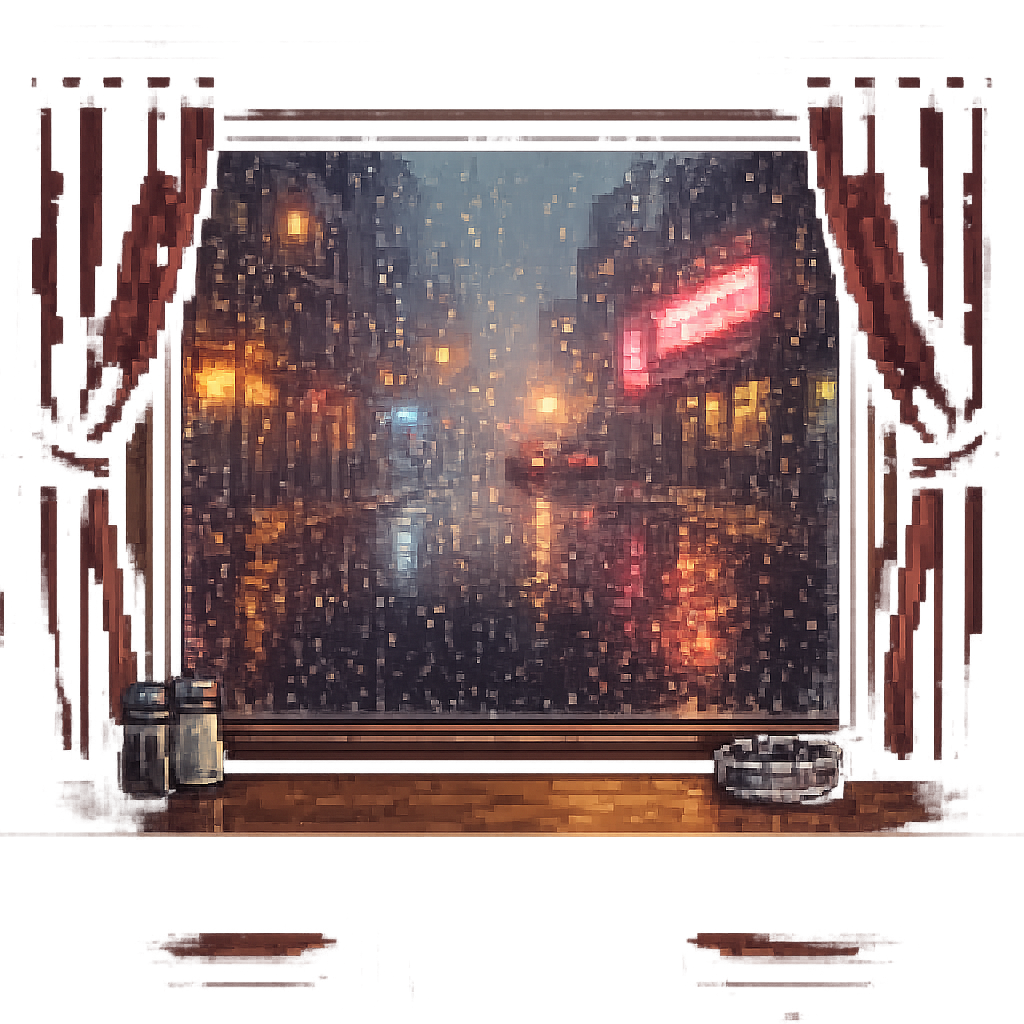
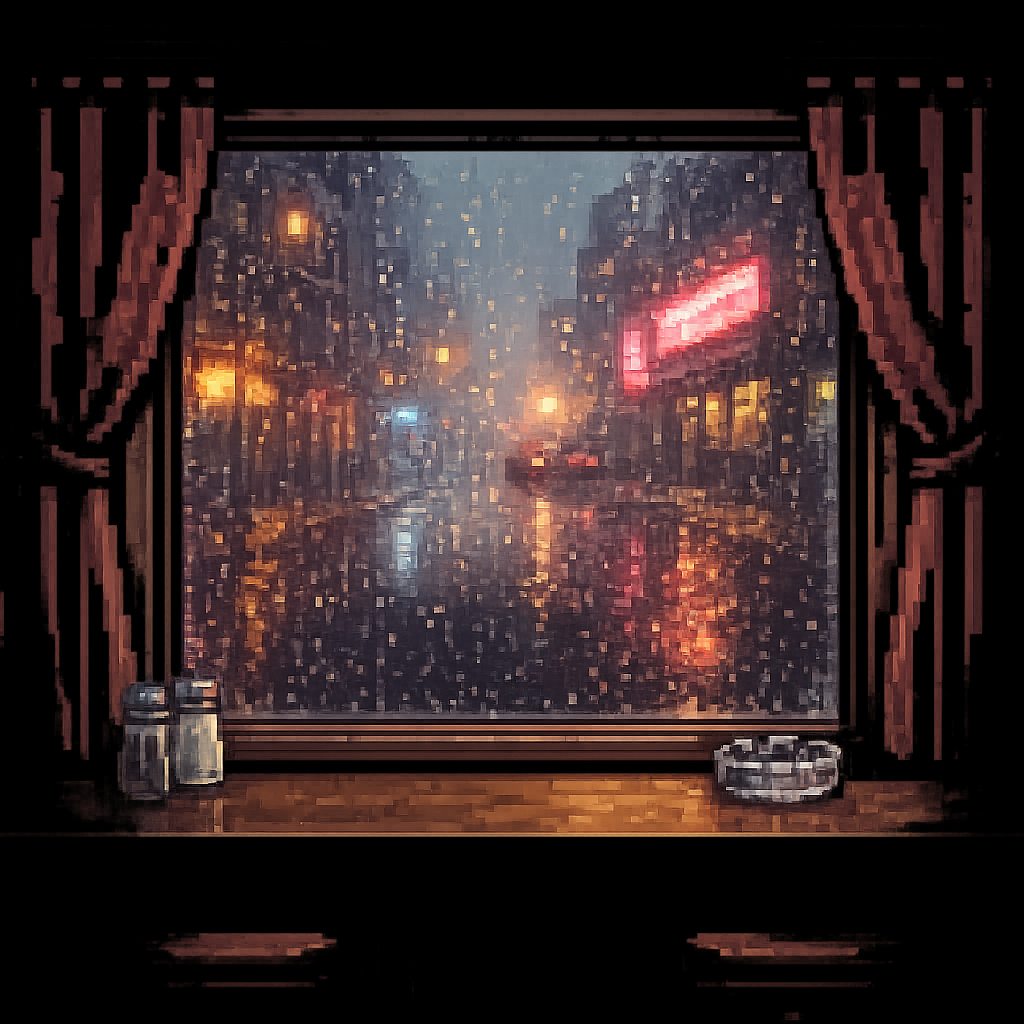
fix bgimg

diff --git a/style.css b/style.css
@@ -388,6 +388,8 @@ body::before {
   display: flex;
   align-items: end;
   justify-content: center;
+  background-image: url(./Girls1/BGbar.png);
+  background-size: cover;
 }
 
 #animazione img {
@@ -514,7 +516,7 @@ body::before {
 
 @media (max-width: 900px) {
   #welcome-body main {
-    grid-template-columns: repeat(3, minmax(160px, 1fr));
+    grid-template-columns: repeat(1, minmax(160px, 1fr));
     gap: 2px;
     padding: 14px 14px 18px;
   }
